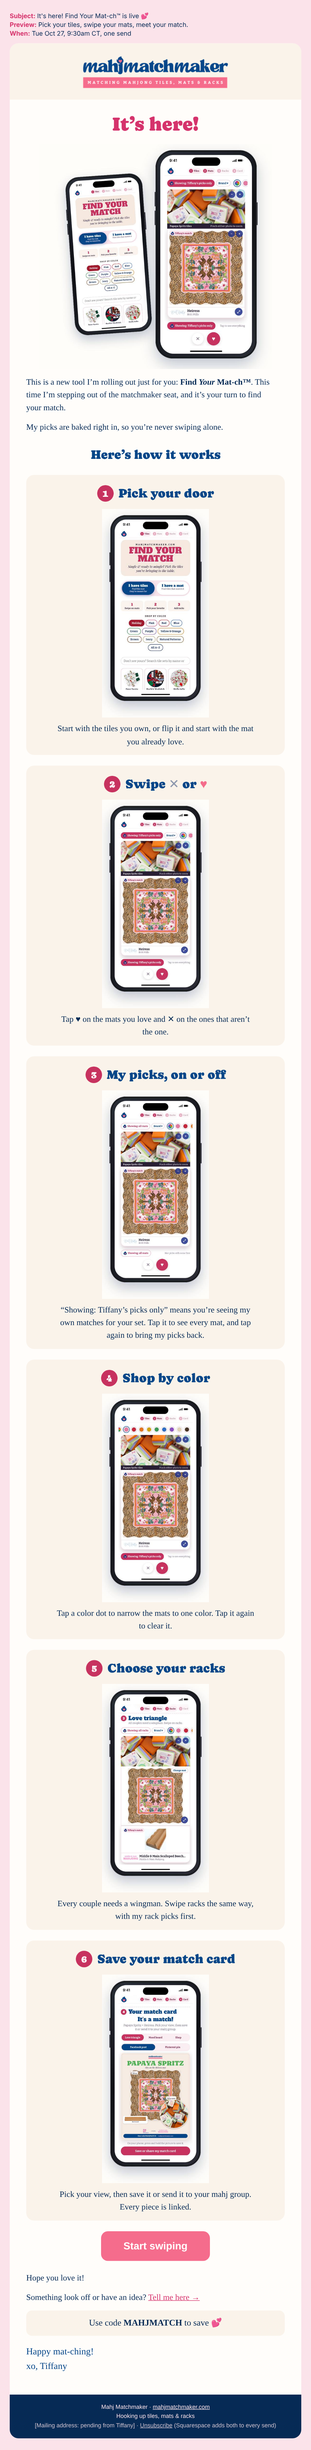
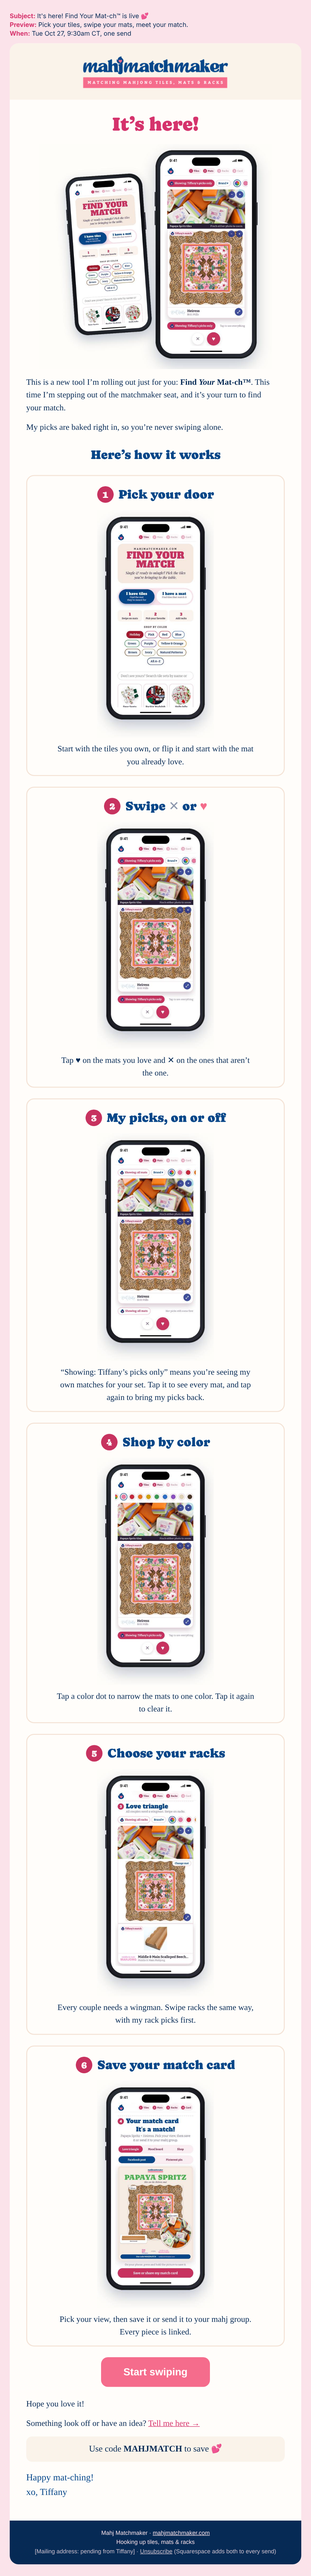
FYM promos show the tool: real app phone screens + 6-step tutorial for launch email and FYM page; Caprasimo email headline images; brand guide rules
Claude-Session: https://claude.ai/code/session_014aKoC1ZMdZPjGkZ9kHhnLk

diff --git a/site/email/templates/launch.html b/site/email/templates/launch.html
@@ -14,7 +14,7 @@ p{margin:0 0 14px}
 a{color:#d6336c}
 .h1{margin:18px 0 14px} .h2{margin:26px 0 6px} .h3{margin:0 0 10px}
 .hero{margin:4px 0 14px}
-.step{text-align:center;margin:22px 0 8px;padding:18px 14px 6px;background:#faf3ea;border-radius:16px} .step p{margin:10px auto 8px;max-width:420px}
+.step{text-align:center;margin:22px 0 8px;padding:18px 14px 6px;background:#fffdfa;border:2px solid #f4e3d6;border-radius:16px} .step p{margin:10px auto 8px;max-width:420px}
 .legal{opacity:.8}
 .btnw{text-align:center;margin:22px 0 22px}
 .btn{display:inline-block;background:#f56c8c;color:#fff!important;text-decoration:none;font:700 21px/1 Helvetica,Arial,sans-serif;padding:20px 46px;border-radius:14px}
@@ -27,4 +27,4 @@ ul{padding-left:20px;margin:0 0 14px} li{margin:0 0 8px}
 .sign{font-size:19px;color:#054689;margin-top:18px}
 .foot{background:#062a55;color:#fbe3ea;text-align:center;font:12px/1.6 Helvetica,Arial,sans-serif;padding:16px 20px}
 .foot a{color:#fbe3ea}
-</style></head><body><div class="outer"><div class="meta"><b>Subject:</b> It&#x27;s here! Find Your Mat-ch™ is live 💕<br><b>Preview:</b> Pick your tiles, swipe your mats, meet your match.<br><b>When:</b> Tue Oct 27, 9:30am CT, one send</div><div class="card"><div class="top"><img src="../../../assets/brand/mahjmatchmaker-wordmark.png" alt="Mahj Matchmaker: matching mahjong tiles, mats &amp; racks"></div><div class="body"><div class="h1"><img class="" src="../assets/fym/hl-launch-h1.png" width="182" height="51" alt="It’s here!" style="display:block;margin:0 auto;max-width:100%;height:auto"></div><div class="hero"><img class="" src="../assets/fym/hero.jpg" width="480" height="463" alt="Find Your Mat-ch on a phone: Papaya Spritz tiles swiping on the Heiress mat by Britt Mills with the X and heart buttons, next to the start screen where you pick I have tiles or I have a mat" style="display:block;margin:0 auto;max-width:100%;height:auto"></div><p>This is a new tool I&rsquo;m rolling out just for you: <b>Find&nbsp;<em>Your</em> Mat&#8209;ch&trade;</b>. This time I&rsquo;m stepping out of the matchmaker seat, and it&rsquo;s your turn to find your&nbsp;match.</p><p>My picks are baked right in, so you&rsquo;re never swiping&nbsp;alone.</p><div class="h2"><img class="" src="../assets/fym/hl-launch-how.png" width="271" height="37" alt="Here’s how it works" style="display:block;margin:0 auto;max-width:100%;height:auto"></div><div class="step"><div class="h3"><img class="" src="../assets/fym/hl-step1.png" width="245" height="42" alt="Step 1: Pick your door" style="display:block;margin:0 auto;max-width:100%;height:auto"></div><img class="shot" src="../assets/fym/step1.jpg" width="220" height="429" alt="The Find Your Mat-ch start screen with two doors: I have tiles, or I have a mat, plus Shop by color" style="display:block;margin:0 auto;max-width:100%;height:auto"><p>Start with the tiles you own, or flip it and start with the mat you already&nbsp;love.</p></div><div class="step"><div class="h3"><img class="" src="../assets/fym/hl-step2.png" width="217" height="42" alt="Step 2: Swipe X or heart" style="display:block;margin:0 auto;max-width:100%;height:auto"></div><img class="shot" src="../assets/fym/step2.jpg" width="220" height="429" alt="Swiping mats for Papaya Spritz tiles: the Heiress mat by Britt Mills, marked Tiffany’s match, with the X and heart buttons" style="display:block;margin:0 auto;max-width:100%;height:auto"><p>Tap &hearts; on the mats you love and &#10005; on the ones that aren&rsquo;t the&nbsp;one.</p></div><div class="step"><div class="h3"><img class="" src="../assets/fym/hl-step3.png" width="293" height="42" alt="Step 3: My picks, on or off" style="display:block;margin:0 auto;max-width:100%;height:auto"></div><img class="shot" src="../assets/fym/step3.jpg" width="220" height="429" alt="The Tiffany’s picks button switched to Showing: all mats, so every mat in the catalog is in the swipe" style="display:block;margin:0 auto;max-width:100%;height:auto"><p>&ldquo;Showing: Tiffany&rsquo;s picks only&rdquo; means you&rsquo;re seeing my own matches for your set. Tap it to see every mat, and tap again to bring my picks&nbsp;back.</p></div><div class="step"><div class="h3"><img class="" src="../assets/fym/hl-step4.png" width="229" height="42" alt="Step 4: Shop by color" style="display:block;margin:0 auto;max-width:100%;height:auto"></div><img class="shot" src="../assets/fym/step4.jpg" width="220" height="429" alt="The color dots above the swipe, with Pink selected to narrow the mats to pink" style="display:block;margin:0 auto;max-width:100%;height:auto"><p>Tap a color dot to narrow the mats to one color. Tap it again to clear&nbsp;it.</p></div><div class="step"><div class="h3"><img class="" src="../assets/fym/hl-step5.png" width="290" height="42" alt="Step 5: Choose your racks" style="display:block;margin:0 auto;max-width:100%;height:auto"></div><img class="shot" src="../assets/fym/step5.jpg" width="220" height="429" alt="The racks step: Papaya Spritz tiles on the Heiress mat with Tiffany’s rack match, Middle &amp; Main Scalloped Beechwood" style="display:block;margin:0 auto;max-width:100%;height:auto"><p>Every couple needs a wingman. Swipe racks the same way, with my rack picks&nbsp;first.</p></div><div class="step"><div class="h3"><img class="" src="../assets/fym/hl-step6.png" width="332" height="42" alt="Step 6: Save your match card" style="display:block;margin:0 auto;max-width:100%;height:auto"></div><img class="shot" src="../assets/fym/step6.jpg" width="220" height="429" alt="The finished match card: Papaya Spritz tiles on the Heiress mat with Beechwood racks, ready to save or share" style="display:block;margin:0 auto;max-width:100%;height:auto"><p>Pick your view, then save it or send it to your mahj group. Every piece is&nbsp;linked.</p></div><div class="btnw"><a class="btn" href="https://www.mahjmatchmaker.com/find-your-match">Start swiping</a></div><p>Hope you love&nbsp;it!</p><p>Something look off or have an idea? <a href="https://www.mahjmatchmaker.com/find-your-mat-ch-feedback">Tell me here&nbsp;&rarr;</a></p><p class="code">Use code <b>MAHJMATCH</b> to save&nbsp;💕</p><p class="sign">Happy mat-ching!<br>xo, Tiffany</p></div><div class="foot">Mahj Matchmaker · <a href="https://www.mahjmatchmaker.com">mahjmatchmaker.com</a><br>Hooking up tiles, mats &amp; racks<br><span class="legal">[Mailing address: pending from Tiffany] · <a href="#">Unsubscribe</a> (Squarespace adds both to every send)</span></div></div></div></body></html>
+</style></head><body><div class="outer"><div class="meta"><b>Subject:</b> It&#x27;s here! Find Your Mat-ch™ is live 💕<br><b>Preview:</b> Pick your tiles, swipe your mats, meet your match.<br><b>When:</b> Tue Oct 27, 9:30am CT, one send</div><div class="card"><div class="top"><img src="../../../assets/brand/mahjmatchmaker-wordmark.png" alt="Mahj Matchmaker: matching mahjong tiles, mats &amp; racks"></div><div class="body"><div class="h1"><img class="" src="../assets/fym/hl-launch-h1.png" width="182" height="51" alt="It’s here!" style="display:block;margin:0 auto;max-width:100%;height:auto"></div><div class="hero"><img class="" src="../assets/fym/hero.jpg" width="480" height="463" alt="Find Your Mat-ch on a phone: Papaya Spritz tiles swiping on the Heiress mat by Britt Mills with the X and heart buttons, next to the start screen where you pick I have tiles or I have a mat" style="display:block;margin:0 auto;max-width:100%;height:auto"></div><p>This is a new tool I&rsquo;m rolling out just for you: <b>Find&nbsp;<em>Your</em> Mat&#8209;ch&trade;</b>. This time I&rsquo;m stepping out of the matchmaker seat, and it&rsquo;s your turn to find your&nbsp;match.</p><p>My picks are baked right in, so you&rsquo;re never swiping&nbsp;alone.</p><div class="h2"><img class="" src="../assets/fym/hl-launch-how.png" width="271" height="37" alt="Here’s how it works" style="display:block;margin:0 auto;max-width:100%;height:auto"></div><div class="step"><div class="h3"><img class="" src="../assets/fym/hl-step1.png" width="245" height="42" alt="Step 1: Pick your door" style="display:block;margin:0 auto;max-width:100%;height:auto"></div><img class="shot" src="../assets/fym/step1.jpg" width="240" height="468" alt="The Find Your Mat-ch start screen with two doors: I have tiles, or I have a mat, plus Shop by color" style="display:block;margin:0 auto;max-width:100%;height:auto"><p>Start with the tiles you own, or flip it and start with the mat you already&nbsp;love.</p></div><div class="step"><div class="h3"><img class="" src="../assets/fym/hl-step2.png" width="217" height="42" alt="Step 2: Swipe X or heart" style="display:block;margin:0 auto;max-width:100%;height:auto"></div><img class="shot" src="../assets/fym/step2.jpg" width="240" height="468" alt="Swiping mats for Papaya Spritz tiles: the Heiress mat by Britt Mills, marked Tiffany’s match, with the X and heart buttons" style="display:block;margin:0 auto;max-width:100%;height:auto"><p>Tap &hearts; on the mats you love and &#10005; on the ones that aren&rsquo;t the&nbsp;one.</p></div><div class="step"><div class="h3"><img class="" src="../assets/fym/hl-step3.png" width="293" height="42" alt="Step 3: My picks, on or off" style="display:block;margin:0 auto;max-width:100%;height:auto"></div><img class="shot" src="../assets/fym/step3.jpg" width="240" height="468" alt="The Tiffany’s picks button switched to Showing: all mats, so every mat in the catalog is in the swipe" style="display:block;margin:0 auto;max-width:100%;height:auto"><p>&ldquo;Showing: Tiffany&rsquo;s picks only&rdquo; means you&rsquo;re seeing my own matches for your set. Tap it to see every mat, and tap again to bring my picks&nbsp;back.</p></div><div class="step"><div class="h3"><img class="" src="../assets/fym/hl-step4.png" width="229" height="42" alt="Step 4: Shop by color" style="display:block;margin:0 auto;max-width:100%;height:auto"></div><img class="shot" src="../assets/fym/step4.jpg" width="240" height="468" alt="The color dots above the swipe, with Pink selected to narrow the mats to pink" style="display:block;margin:0 auto;max-width:100%;height:auto"><p>Tap a color dot to narrow the mats to one color. Tap it again to clear&nbsp;it.</p></div><div class="step"><div class="h3"><img class="" src="../assets/fym/hl-step5.png" width="290" height="42" alt="Step 5: Choose your racks" style="display:block;margin:0 auto;max-width:100%;height:auto"></div><img class="shot" src="../assets/fym/step5.jpg" width="240" height="468" alt="The racks step: Papaya Spritz tiles on the Heiress mat with Tiffany’s rack match, Middle &amp; Main Scalloped Beechwood" style="display:block;margin:0 auto;max-width:100%;height:auto"><p>Every couple needs a wingman. Swipe racks the same way, with my rack picks&nbsp;first.</p></div><div class="step"><div class="h3"><img class="" src="../assets/fym/hl-step6.png" width="332" height="42" alt="Step 6: Save your match card" style="display:block;margin:0 auto;max-width:100%;height:auto"></div><img class="shot" src="../assets/fym/step6.jpg" width="240" height="468" alt="The finished match card: Papaya Spritz tiles on the Heiress mat with Beechwood racks, ready to save or share" style="display:block;margin:0 auto;max-width:100%;height:auto"><p>Pick your view, then save it or send it to your mahj group. Every piece is&nbsp;linked.</p></div><div class="btnw"><a class="btn" href="https://www.mahjmatchmaker.com/find-your-match">Start swiping</a></div><p>Hope you love&nbsp;it!</p><p>Something look off or have an idea? <a href="https://www.mahjmatchmaker.com/find-your-mat-ch-feedback">Tell me here&nbsp;&rarr;</a></p><p class="code">Use code <b>MAHJMATCH</b> to save&nbsp;💕</p><p class="sign">Happy mat-ching!<br>xo, Tiffany</p></div><div class="foot">Mahj Matchmaker · <a href="https://www.mahjmatchmaker.com">mahjmatchmaker.com</a><br>Hooking up tiles, mats &amp; racks<br><span class="legal">[Mailing address: pending from Tiffany] · <a href="#">Unsubscribe</a> (Squarespace adds both to every send)</span></div></div></div></body></html>

diff --git a/site/email/templates/album-exists.html b/site/email/templates/album-exists.html
@@ -14,7 +14,7 @@ p{margin:0 0 14px}
 a{color:#d6336c}
 .h1{margin:18px 0 14px} .h2{margin:26px 0 6px} .h3{margin:0 0 10px}
 .hero{margin:4px 0 14px}
-.step{text-align:center;margin:22px 0 8px;padding:18px 14px 6px;background:#faf3ea;border-radius:16px} .step p{margin:10px auto 8px;max-width:420px}
+.step{text-align:center;margin:22px 0 8px;padding:18px 14px 6px;background:#fffdfa;border:2px solid #f4e3d6;border-radius:16px} .step p{margin:10px auto 8px;max-width:420px}
 .legal{opacity:.8}
 .btnw{text-align:center;margin:22px 0 22px}
 .btn{display:inline-block;background:#f56c8c;color:#fff!important;text-decoration:none;font:700 21px/1 Helvetica,Arial,sans-serif;padding:20px 46px;border-radius:14px}

diff --git a/site/email/templates/album-live.html b/site/email/templates/album-live.html
@@ -14,7 +14,7 @@ p{margin:0 0 14px}
 a{color:#d6336c}
 .h1{margin:18px 0 14px} .h2{margin:26px 0 6px} .h3{margin:0 0 10px}
 .hero{margin:4px 0 14px}
-.step{text-align:center;margin:22px 0 8px;padding:18px 14px 6px;background:#faf3ea;border-radius:16px} .step p{margin:10px auto 8px;max-width:420px}
+.step{text-align:center;margin:22px 0 8px;padding:18px 14px 6px;background:#fffdfa;border:2px solid #f4e3d6;border-radius:16px} .step p{margin:10px auto 8px;max-width:420px}
 .legal{opacity:.8}
 .btnw{text-align:center;margin:22px 0 22px}
 .btn{display:inline-block;background:#f56c8c;color:#fff!important;text-decoration:none;font:700 21px/1 Helvetica,Arial,sans-serif;padding:20px 46px;border-radius:14px}

diff --git a/site/email/templates/album-request.html b/site/email/templates/album-request.html
@@ -14,7 +14,7 @@ p{margin:0 0 14px}
 a{color:#d6336c}
 .h1{margin:18px 0 14px} .h2{margin:26px 0 6px} .h3{margin:0 0 10px}
 .hero{margin:4px 0 14px}
-.step{text-align:center;margin:22px 0 8px;padding:18px 14px 6px;background:#faf3ea;border-radius:16px} .step p{margin:10px auto 8px;max-width:420px}
+.step{text-align:center;margin:22px 0 8px;padding:18px 14px 6px;background:#fffdfa;border:2px solid #f4e3d6;border-radius:16px} .step p{margin:10px auto 8px;max-width:420px}
 .legal{opacity:.8}
 .btnw{text-align:center;margin:22px 0 22px}
 .btn{display:inline-block;background:#f56c8c;color:#fff!important;text-decoration:none;font:700 21px/1 Helvetica,Arial,sans-serif;padding:20px 46px;border-radius:14px}

diff --git a/site/email/templates/welcome.html b/site/email/templates/welcome.html
@@ -14,7 +14,7 @@ p{margin:0 0 14px}
 a{color:#d6336c}
 .h1{margin:18px 0 14px} .h2{margin:26px 0 6px} .h3{margin:0 0 10px}
 .hero{margin:4px 0 14px}
-.step{text-align:center;margin:22px 0 8px;padding:18px 14px 6px;background:#faf3ea;border-radius:16px} .step p{margin:10px auto 8px;max-width:420px}
+.step{text-align:center;margin:22px 0 8px;padding:18px 14px 6px;background:#fffdfa;border:2px solid #f4e3d6;border-radius:16px} .step p{margin:10px auto 8px;max-width:420px}
 .legal{opacity:.8}
 .btnw{text-align:center;margin:22px 0 22px}
 .btn{display:inline-block;background:#f56c8c;color:#fff!important;text-decoration:none;font:700 21px/1 Helvetica,Arial,sans-serif;padding:20px 46px;border-radius:14px}

diff --git a/site/email/build.py b/site/email/build.py
@@ -148,7 +148,7 @@ p{{margin:0 0 14px}}
 a{{color:{PINK}}}
 .h1{{margin:18px 0 14px}} .h2{{margin:26px 0 6px}} .h3{{margin:0 0 10px}}
 .hero{{margin:4px 0 14px}}
-.step{{text-align:center;margin:22px 0 8px;padding:18px 14px 6px;background:{CREAM};border-radius:16px}} .step p{{margin:10px auto 8px;max-width:420px}}
+.step{{text-align:center;margin:22px 0 8px;padding:18px 14px 6px;background:{PCREAM};border:2px solid #f4e3d6;border-radius:16px}} .step p{{margin:10px auto 8px;max-width:420px}}
 .legal{{opacity:.8}}
 .btnw{{text-align:center;margin:22px 0 22px}}
 .btn{{display:inline-block;background:{HPINK};color:#fff!important;text-decoration:none;font:700 21px/1 Helvetica,Arial,sans-serif;padding:20px 46px;border-radius:14px}}
@@ -203,7 +203,7 @@ def render(e, with_meta=True):
     if e.get("steps"):
         h.append(f'<div class="h2">{img(e["steps_head"])}</div>')
         for i, t in enumerate(e["steps"], 1):
-            h.append(f'<div class="step"><div class="h3">{img(f"hl-step{i}")}</div>{img(f"step{i}", "shot", 220)}<p>{nw(t)}</p></div>')
+            h.append(f'<div class="step"><div class="h3">{img(f"hl-step{i}")}</div>{img(f"step{i}", "shot", 240)}<p>{nw(t)}</p></div>')
     if e.get("list"):
         h.append(f'<div class="h2">{img(e["list_head"])}</div>')
         h.append("<ul>" + "".join(f"<li>{x}</li>" for x in e["list"]) + "</ul>")

diff --git a/docs/BRAND-GUIDE.md b/docs/BRAND-GUIDE.md
@@ -433,6 +433,7 @@ Never put drop shadows or other effects on text.
 | Oct 21 | Amazon mood boards use generic names; Title Case titles, never all lowercase. |
 | Oct 21 | Beige felt mat is one recurring asset. Set genders listed in §3. |
 | Oct 21 | This brand guide created. |
+| Oct 21 | FYM promos show the tool (real app screens, tutorial), never the match-card fan; her picks live in the tool; feedback goes to Claude; email headlines are Caprasimo images. |
 
 ---
 
@@ -461,6 +462,12 @@ Never put drop shadows or other effects on text.
 - 2026-10-21 14:12 (Tiffany): **Headline font on graphics = the dating-profile headline font** (the bold navy display serif from the Papaya profile carousel: "Her colors" / "Her faces"). The handwritten script is fine only in tiny doses, like the "It's a mat-ch!" stamp, and never for main headlines. **Logo on graphics = the wordmark WITH the tagline ribbon** ("Matching mahjong tiles, mats & racks"), not the bare wordmark. Feed posts: keep the top of every slide clear of the IG/Planoly profile header overlay.
 - 2026-10-21 14:36 (Tiffany): IG stories DO have an optional "Add a caption" box now. Story reminders open with the steps (Select, then frames in order, then Separate, then stickers per frame), then one short optional caption line at the bottom. Planoly's "copy and open" doesn't always copy, so the line must be easy to long-press and copy.
 - 2026-10-21 14:38 (Tiffany): **Planoly's reminder screen shows only the first ~3 lines of the caption, and "Copy & open" copies ALL of it.** Story reminders: the caption field holds ONLY ≤3 short lines of sticker steps (frame → sticker), with no box and no caption to paste. Feed/reel reminders: the caption field should be EXACTLY what she pastes, with the must-know step in the first line. Long 🛑 boxes don't work on her phone.
+
+- 2026-10-21 15:13 (Tiffany): **Anything that unveils or promotes Find *Your* Mat-ch™ SHOWS THE TOOL.** Use real app screens: the swipe view (a tile photo plus a mat card, ✕ and ♥ only, undo hidden, no %), the two doors, the "Tiffany's picks" button, the colour dots, racks, and the match card the app makes at the end, in a true-proportion iPhone frame (`scripts/fym_promo/`). The album match-card fan is a separate product and is never the visual for the tool. Her words: "You can't preview the Find Your Match tool with match cards. Those are two very distinct things."
+- 2026-10-21 15:14 (Tiffany): **FYM promos are a TUTORIAL.** Walk through it step by step, each step with a real screenshot: (1) pick your door, (2) swipe ✕ / ♥, (3) Tiffany's picks on or off, (4) colour filter, (5) racks, (6) save and share the match card. Voice: "a new tool I'm rolling out just for you… I'm stepping out of the matchmaker seat", plus "Hope you love it!"
+- 2026-10-21 15:14 (Tiffany): **Her picks are INSIDE the tool**, via the "Showing: Tiffany's picks only" toggle. Never send people to the albums for "my own picks" when promoting the tool.
+- 2026-10-21 15:14 (Tiffany): **Feedback goes to Claude, never to Tiffany.** Every FYM promo carries "Something look off or have an idea? Tell me here →", linking the hidden form page /find-your-mat-ch-feedback. Its notifications go to mahjmatchmaker@gmail.com, where a filter labels them "Site/FYM feedback" and skips the inbox. Claude reads that label daily, fixes what it can, and brings Tiffany only the decisions only she can make.
+- 2026-10-21 15:20 (Tiffany): **Email headlines are images in the brand headline font** (Caprasimo, brand colours, 2x, light PNGs, descriptive alt text): the H1, the "Hi, I'm Tiffany!" greeting, step titles and section heads. Body text stays live text in the closest clean font the Squarespace editor offers. Deliverability: real text carries the message (never an all-image email), light total image weight, at most one "!" in a subject and no ALL CAPS, footer with unsubscribe + mailing address.
 
 ## VERIFY list
 
